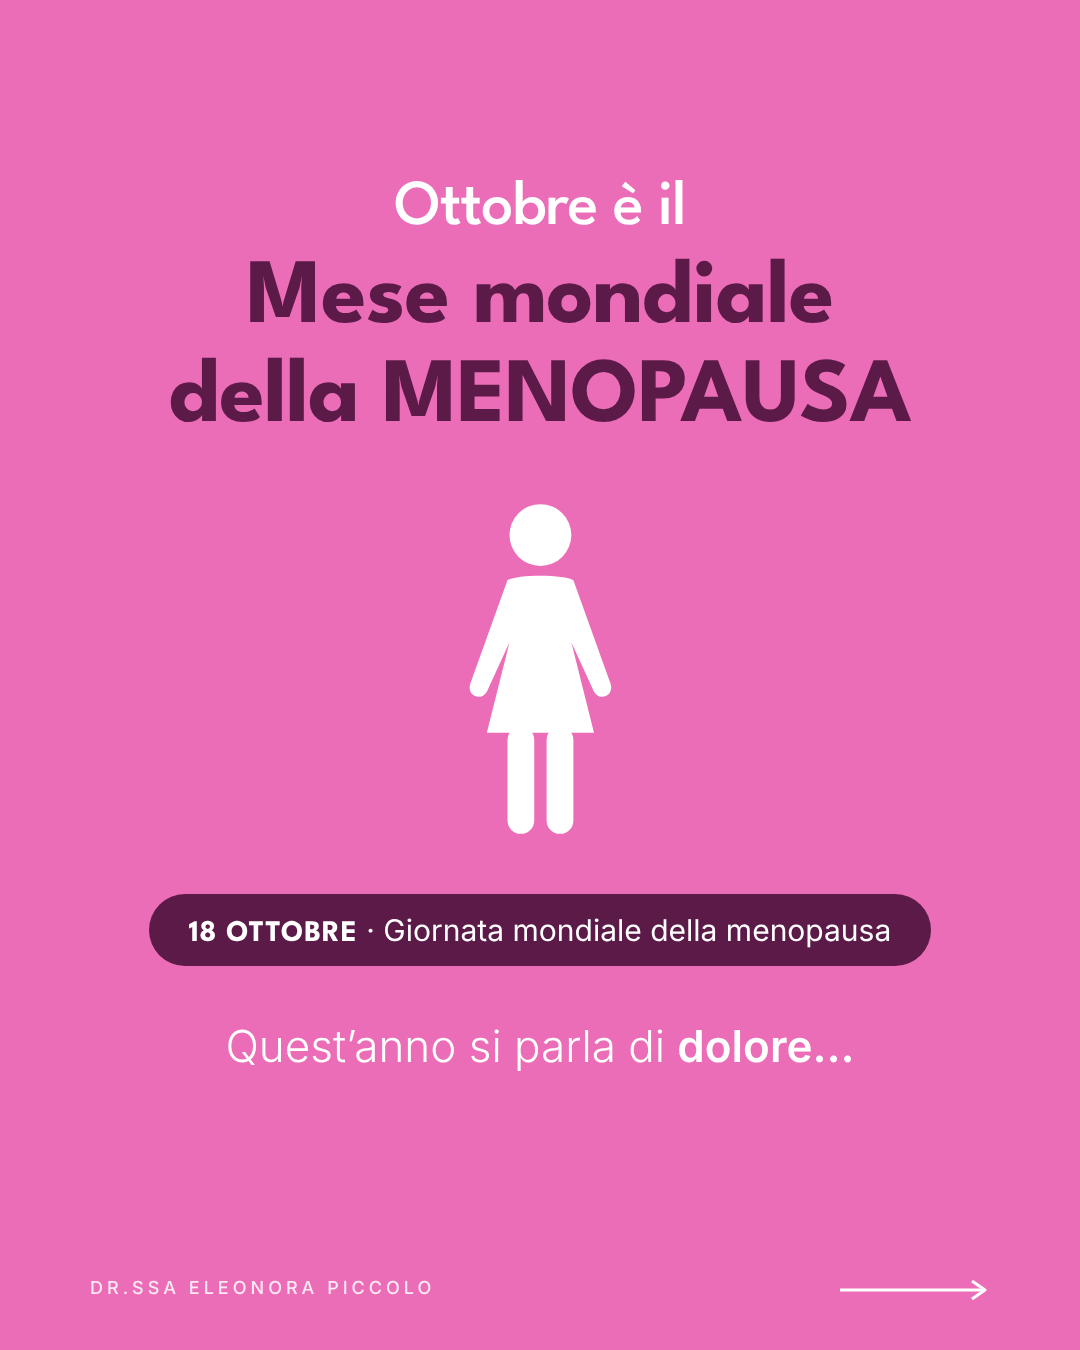
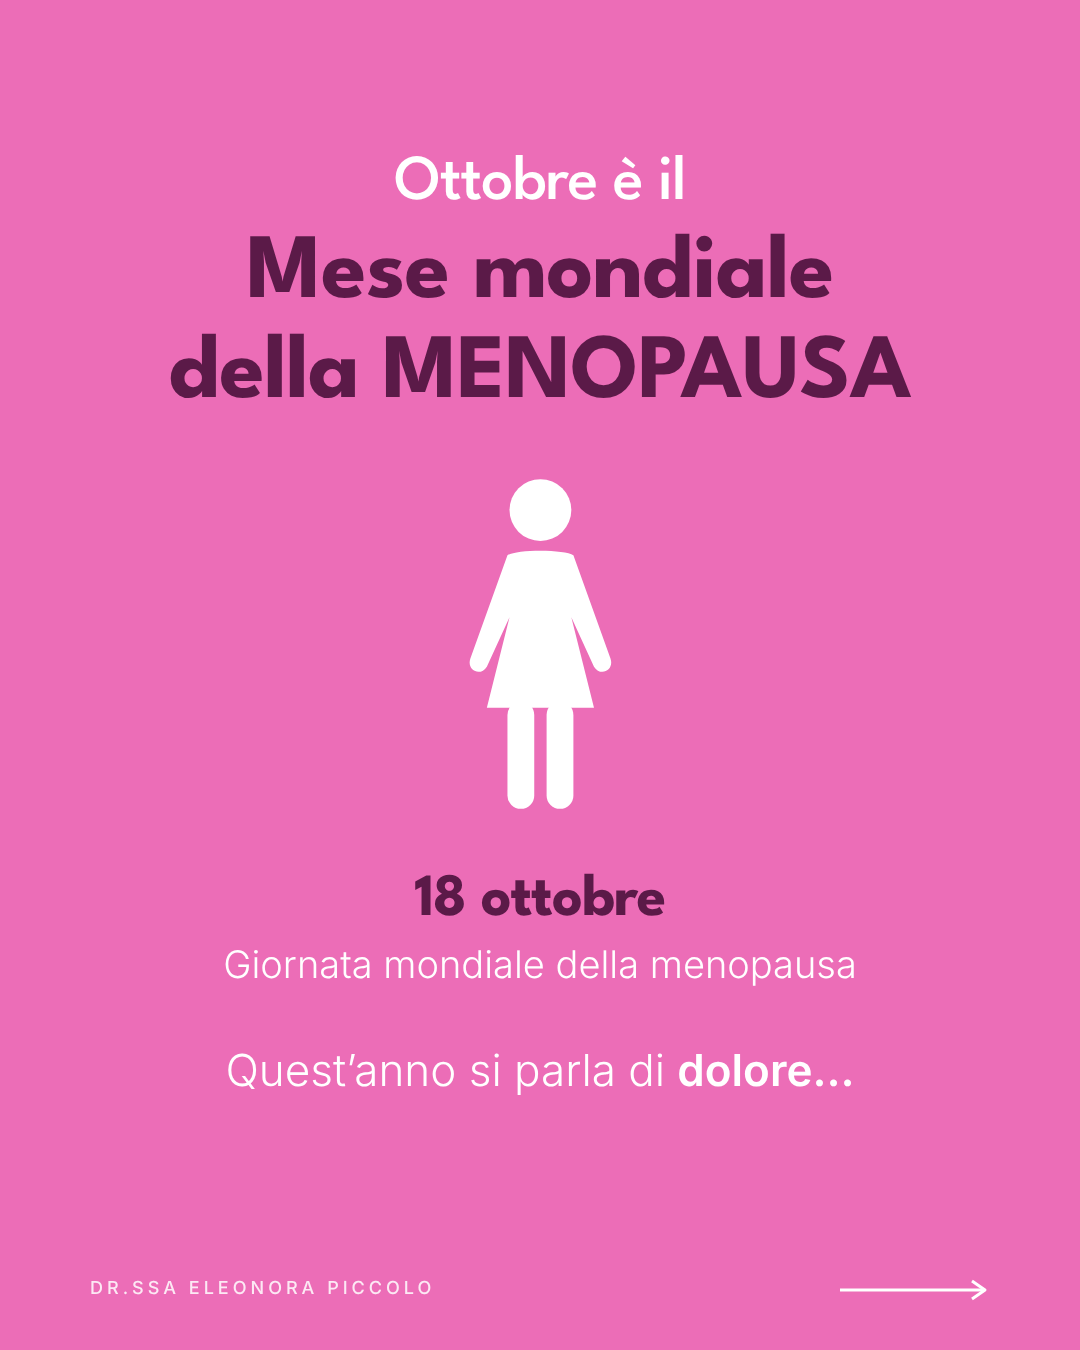
Copertina dolore: data in testo semplice, senza etichetta né separatore
Claude-Session: https://claude.ai/code/session_016XPgH8wqbxXqRTjFznYGrk

diff --git a/src/PostDolore/Slides.tsx b/src/PostDolore/Slides.tsx
@@ -79,20 +79,12 @@ export const Slide1: React.FC = () => (
       <div style={{ marginTop: 50 }}>
         <WomanIcon color={colors.white} height={340} />
       </div>
-      <div
-        style={{
-          marginTop: 50,
-          backgroundColor: colors.plum,
-          color: colors.white,
-          borderRadius: 999,
-          padding: "18px 40px",
-          fontSize: 30,
-          fontWeight: 400,
-        }}
-      >
-        <span style={{ fontFamily: fonts.title, fontWeight: 700, letterSpacing: 1 }}>18 OTTOBRE</span>
-        {"  ·  "}Giornata mondiale della menopausa
-      </div>
+      <Title color={colors.plum} size={60} style={{ fontWeight: 700, marginTop: 50 }}>
+        18 ottobre
+      </Title>
+      <Body color={colors.white} style={{ fontSize: 38, marginTop: 4 }}>
+        Giornata mondiale della menopausa
+      </Body>
       <Body color={colors.white} style={{ fontSize: 44, marginTop: 50 }}>
         Quest’anno si parla di <span style={{ fontWeight: 600 }}>dolore…</span>
       </Body>
